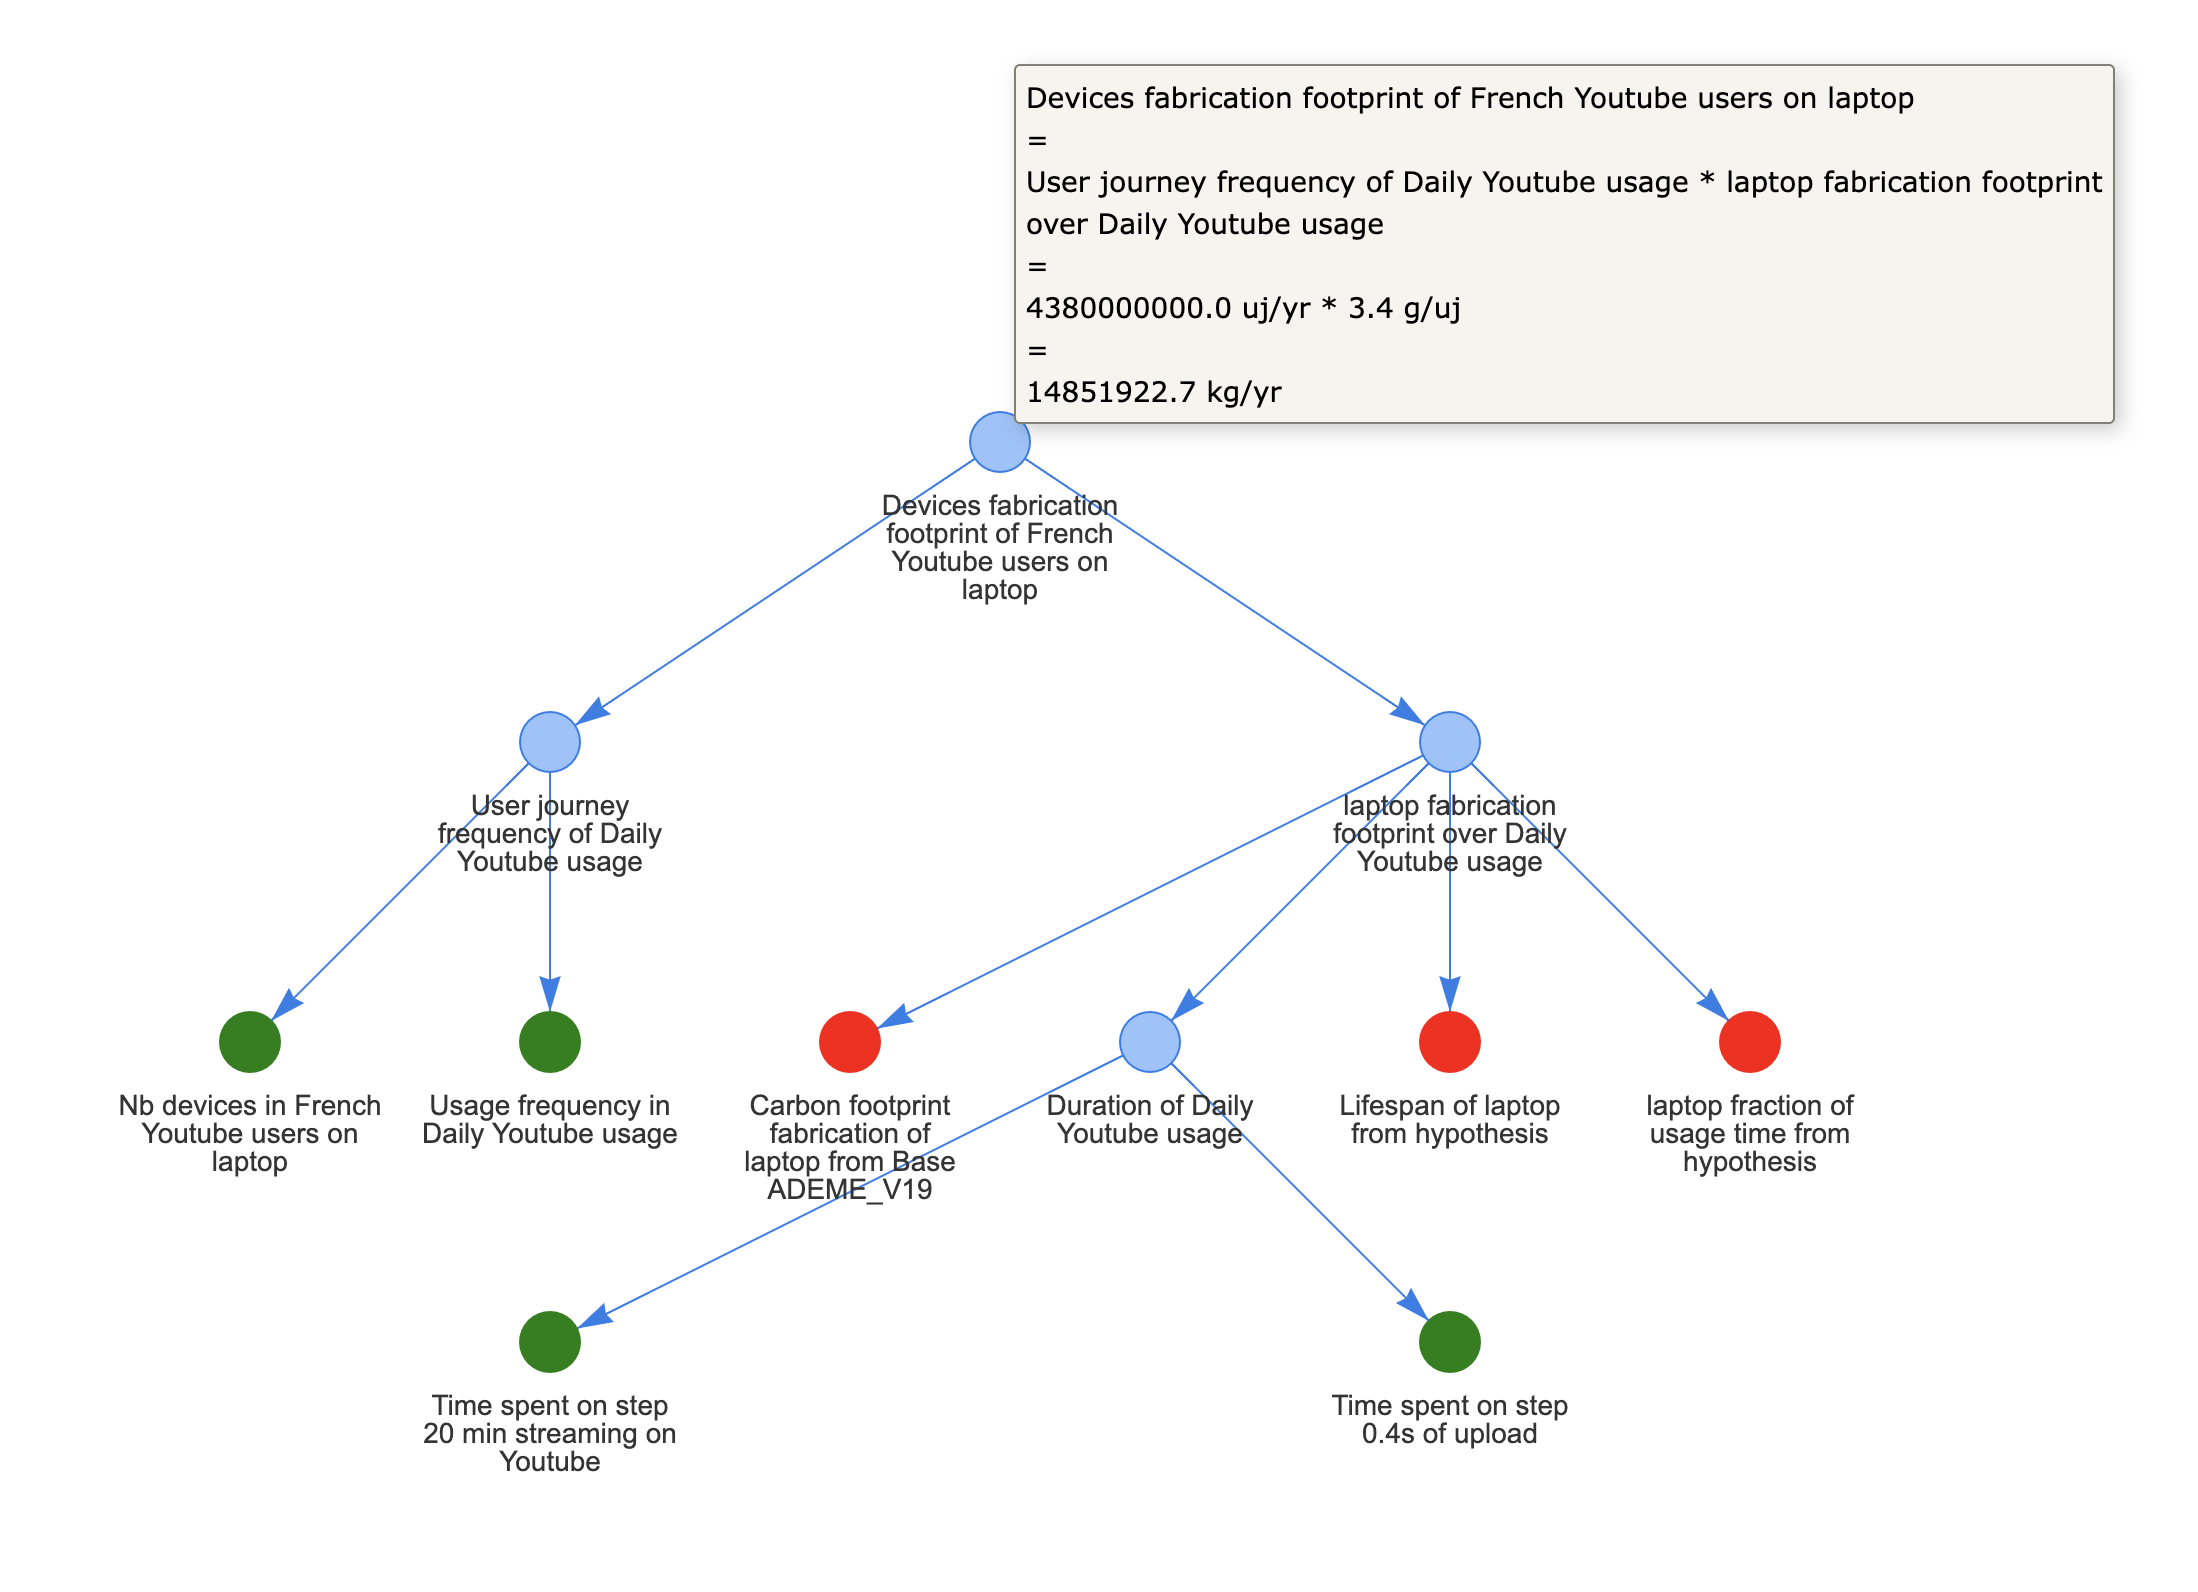
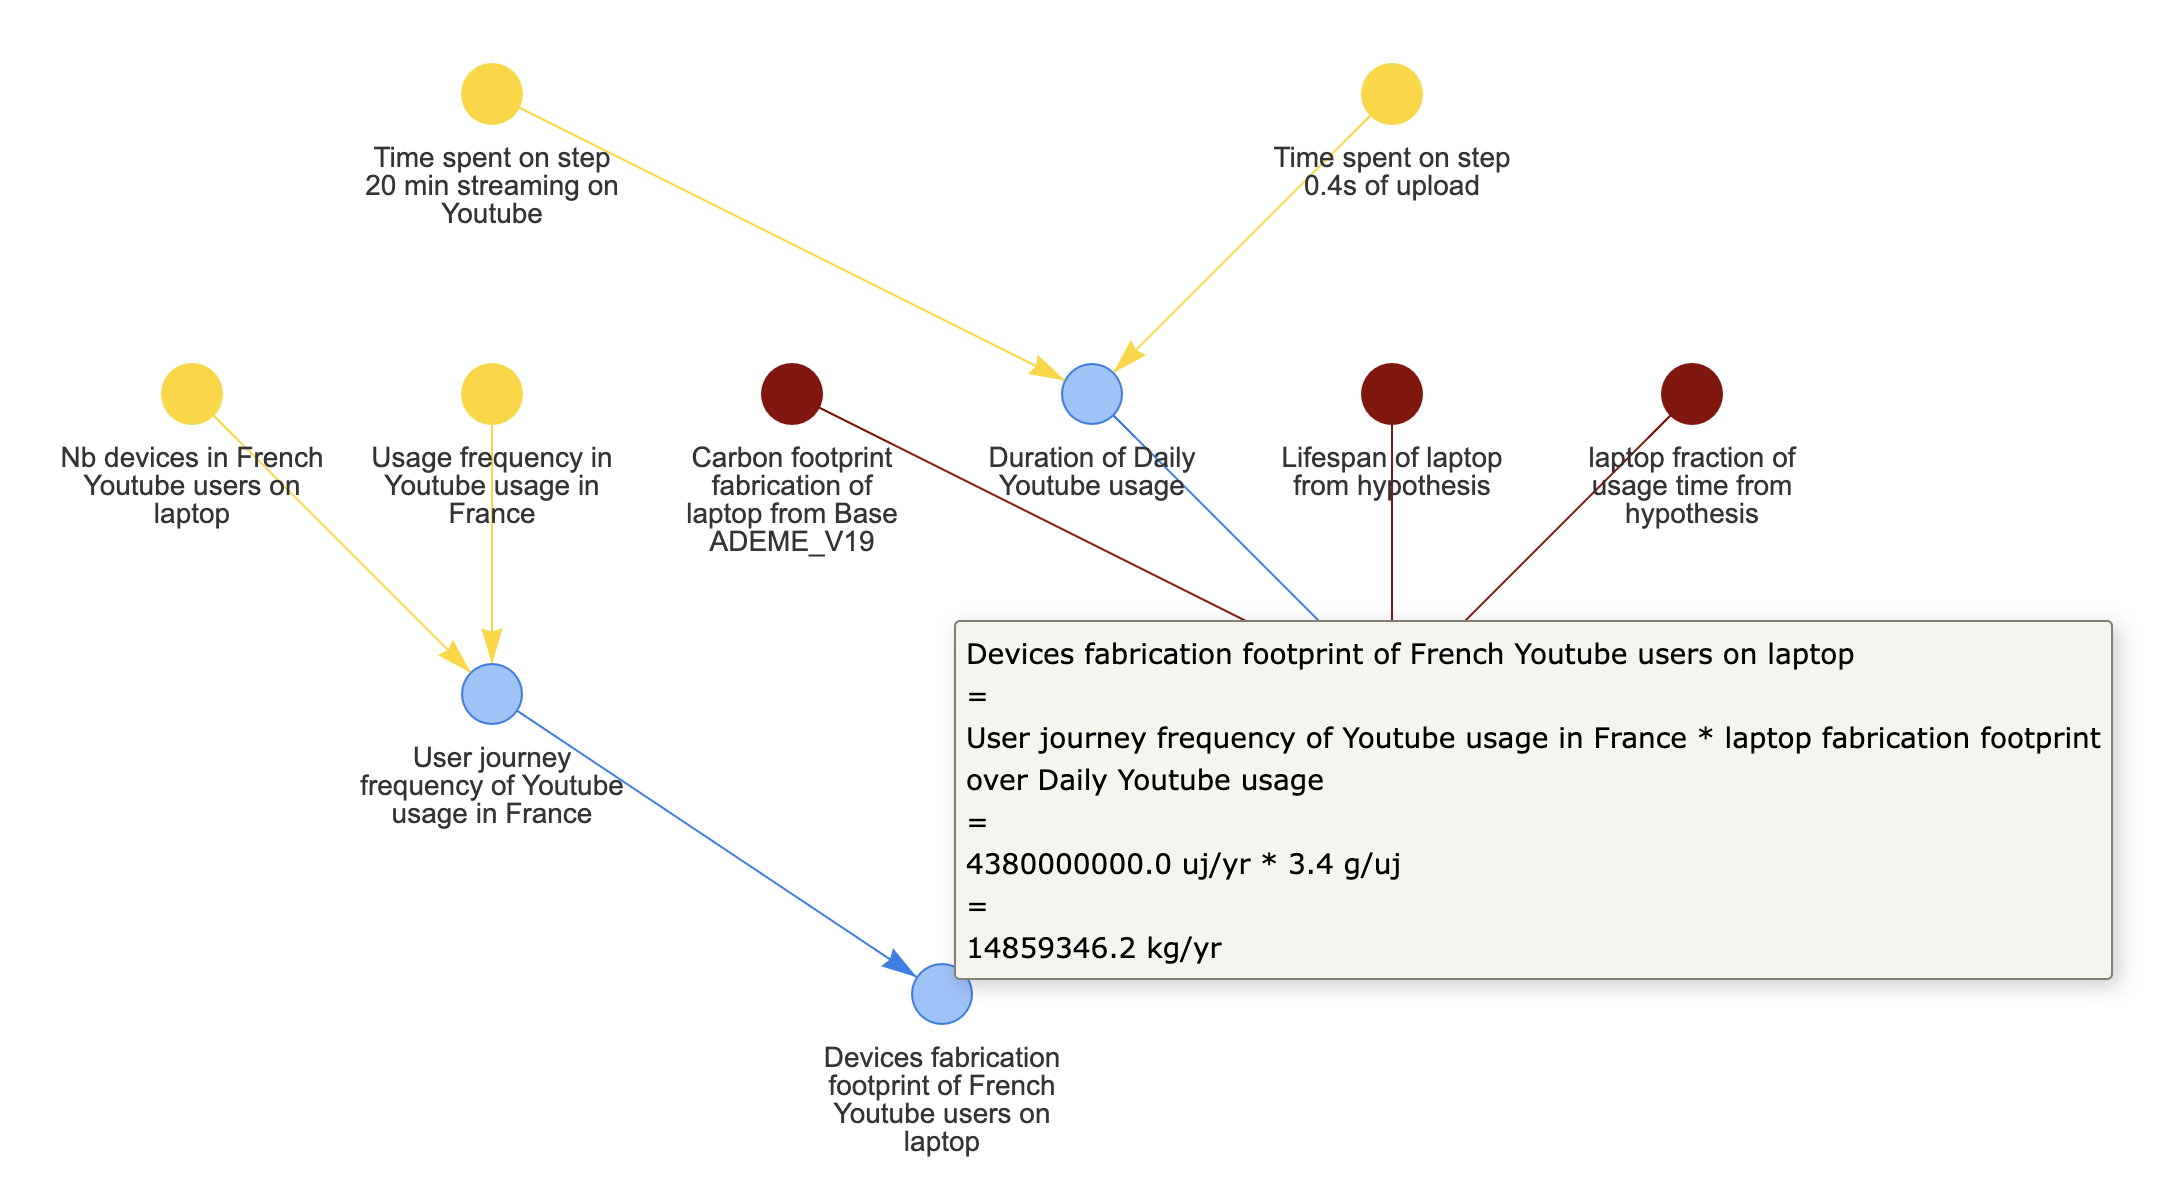
[UPDATE] Readme and quickstart

diff --git a/quickstart.py b/quickstart.py
@@ -1,4 +1,3 @@
-from efootprint.constants.files import README_IMAGES_PATH
 from efootprint.constants.sources import SourceValue, Sources, SourceObject
 from efootprint.core.usage.user_journey import UserJourney, UserJourneyStep
 from efootprint.core.hardware.servers.autoscaling import Autoscaling
@@ -75,9 +74,11 @@ system = System("system 1", [usage_pattern])
 print(f"Server carbon footprint is {(server.energy_footprint + server.instances_fabrication_footprint).value}")
 print(f"Total system carbon footprint is {system.total_footprint().value}")
 
+current_dir = os.path.abspath(os.path.dirname(__file__))
+
 calculus_graph = build_calculus_graph(device_population.instances_fabrication_footprint)
-calculus_graph.show(os.path.join(README_IMAGES_PATH, "device_population_fab_footprint_calculus_graph.html"))
+calculus_graph.show(os.path.join(current_dir, "device_population_fab_footprint_calculus_graph.html"))
 
 object_relationships_graph = build_object_relationships_graph(
     usage_pattern, classes_to_ignore=USAGE_PATTERN_VIEW_CLASSES_TO_IGNORE)
-object_relationships_graph.show(os.path.join(README_IMAGES_PATH, "object_relationships_graph.html"))
+object_relationships_graph.show(os.path.join(current_dir, "object_relationships_graph.html"))

diff --git a/README.md b/README.md
@@ -9,16 +9,16 @@ The current perimeter is the carbon footprint associated with the fabrication an
 
     pip install efootprint
 
-You can then run the [quickstart](quickstart.py) script to familiarize yourself with the object logic and generate an object relationship graph and a calculation graph as html files in the ./images folder.
+You can then run the [quickstart](quickstart.py) script to familiarize yourself with the object logic and generate an object relationship graph and a calculation graph as html files in the current folder.
 
 <figure>
-    <img src="images/obj_relationships_graph_example.png" width="400" alt="object relationships graph">
-    <figcaption>Object relationships graph: usage objects in green, hardware in brown, and service in blue</figcaption>
+    <img src="images/obj_relationships_graph_example.png" width="550" alt="object relationships graph">
+    <figcaption>Object relationships graph: usage pattern in wheat, user journey in gold, user journey steps in khaki, hardware in darkred, and service in blue</figcaption>
 </figure>
 
 <figure>
-    <img src="images/device_population_fab_footprint_calculus_graph_example.png" width="800" alt="simple calculation graph">
-    <figcaption>Calculus graph: user inputs in green, hypothesis in red, and intermediate calculations in pale blue. Hover over a node to read the formula.</figcaption>
+    <img src="images/device_population_fab_footprint_calculus_graph_example.png" width="900" alt="simple calculation graph">
+    <figcaption>Calculus graph: user inputs in gold, hypothesis in darkred, and intermediate calculations in pale blue. Hover over a node to read the formula.</figcaption>
 </figure>
 
 ## Dev setup
